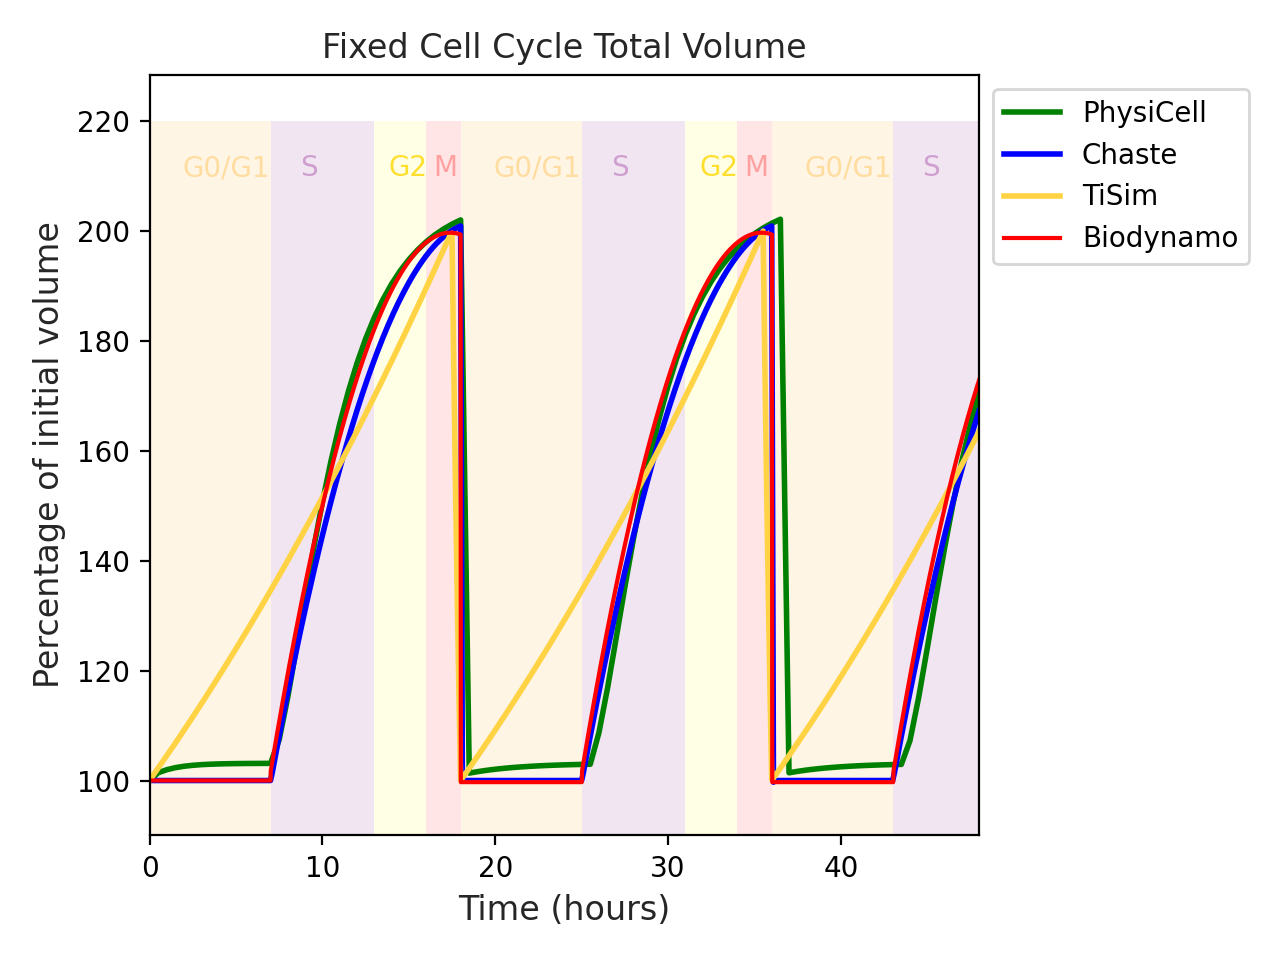
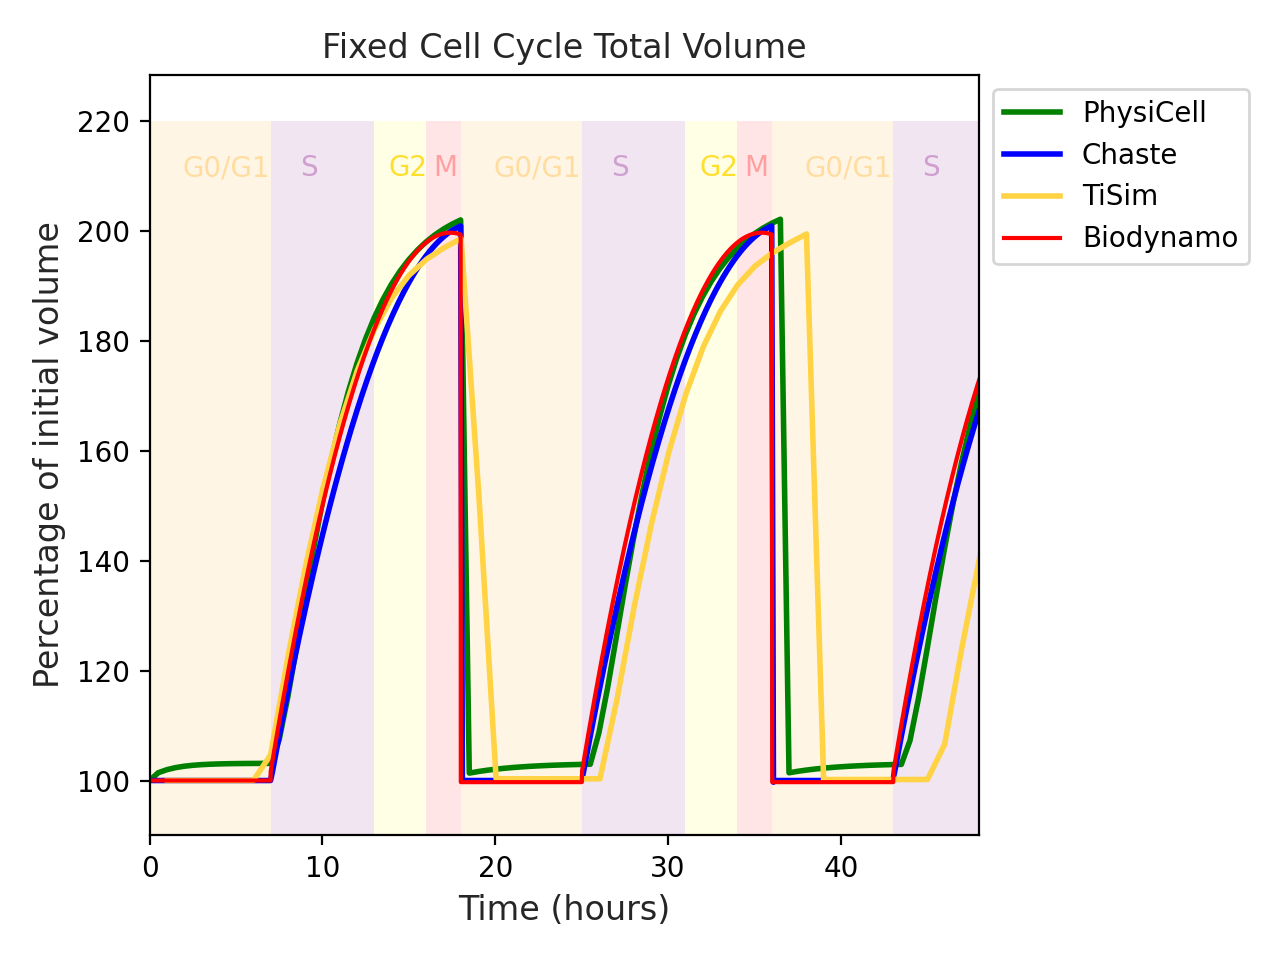
added tisim cell cycle

diff --git a/multiscale_benchmark/2022_09_hackathon/analysis/plot_fixed_cell_cycle.py b/multiscale_benchmark/2022_09_hackathon/analysis/plot_fixed_cell_cycle.py
@@ -27,10 +27,14 @@ def get_biodynamo_df(file):
 
     return df
 def get_tisim_df():
-    tisim_arr = [1,1.00454,1.00902,1.01351,1.01801,1.02253,1.02706,1.0316,1.03616,1.04073,1.04531,1.04991,1.05452,1.05915,1.06378,1.06844,1.0731,1.07778,1.08247,1.08718,1.0919,1.09663,1.10138,1.10614,1.11091,1.1157,1.1205,1.12532,1.13014,1.13499,1.13984,1.14471,1.1496,1.1545,1.15941,1.16433,1.16927,1.17423,1.1792,1.18418,1.18917,1.19418,1.19921,1.20425,1.2093,1.21436,1.21944,1.22454,1.22965,1.23477,1.23991,1.24506,1.25022,1.2554,1.2606,1.26581,1.27103,1.27627,1.28152,1.28678,1.29206,1.29736,1.30267,1.30799,1.31333,1.31868,1.32405,1.32943,1.33483,1.34024,1.34566,1.3511,1.35656,1.36203,1.36751,1.37301,1.37852,1.38405,1.38959,1.39515,1.40072,1.40631,1.41191,1.41753,1.42316,1.42881,1.43447,1.44015,1.44584,1.45155,1.45727,1.463,1.46876,1.47452,1.4803,1.4861,1.49191,1.49774,1.50358,1.50944,1.51531,1.5212,1.5271,1.53302,1.53895,1.5449,1.55087,1.55685,1.56284,1.56885,1.57488,1.58092,1.58698,1.59305,1.59913,1.60524,1.61136,1.61749,1.62364,1.6298,1.63598,1.64218,1.64839,1.65462,1.66086,1.66712,1.6734,1.67969,1.68599,1.69231,1.69865,1.70501,1.71137,1.71776,1.72416,1.73058,1.73701,1.74346,1.74992,1.7564,1.7629,1.76941,1.77594,1.78248,1.78905,1.79562,1.80221,1.80882,1.81545,1.82209,1.82875,1.83542,1.84211,1.84882,1.85554,1.86228,1.86903,1.8758,1.88259,1.88939,1.89621,1.90305,1.9099,1.91677,1.92366,1.93056,1.93748,1.94441,1.95137,1.95833,1.96532,1.97232,1.97934,1.98637,1.99343,1.99625,1.759,1.54133,1.34241,1.16138,1,1.00443,1.0089,1.01339,1.0179,1.02241,1.02694,1.03149,1.03604,1.04061,1.0452,1.0498,1.05441,1.05903,1.06367,1.06832,1.07298,1.07766,1.08235,1.08706,1.09178,1.09651,1.10126,1.10602,1.11079,1.11558,1.12038,1.12519,1.13002,1.13487,1.13972,1.14459,1.14948,1.15437,1.15929,1.16421,1.16915,1.1741,1.17907,1.18405,1.18905,1.19406,1.19908,1.20412,1.20917,1.21424,1.21932,1.22441,1.22952,1.23464,1.23978,1.24493,1.2501,1.25527,1.26047,1.26568,1.2709,1.27614,1.28139,1.28665,1.29193,1.29723,1.30254,1.30786,1.3132,1.31855,1.32392,1.3293,1.33469,1.3401,1.34553,1.35097,1.35642,1.36189,1.36737,1.37287,1.37839,1.38391,1.38946,1.39501,1.40059,1.40617,1.41177,1.41739,1.42302,1.42867,1.43433,1.44001,1.4457,1.4514,1.45712,1.46286,1.46861,1.47438,1.48016,1.48596,1.49177,1.49759,1.50344,1.50929,1.51517,1.52105,1.52696,1.53287,1.53881,1.54475,1.55072,1.5567,1.56269,1.5687,1.57473,1.58077,1.58682,1.5929,1.59898,1.60508,1.6112,1.61734,1.62349,1.62965,1.63583,1.64203,1.64824,1.65446,1.66071,1.66697,1.67324,1.67953,1.68583,1.69216,1.69849,1.70485,1.71121,1.7176,1.724,1.73042,1.73685,1.7433,1.74976,1.75624,1.76274,1.76925,1.77578,1.78232,1.78888,1.79546,1.80205,1.80866,1.81528,1.82192,1.82858,1.83525,1.84194,1.84865,1.85537,1.86211,1.86886,1.87563,1.88242,1.88922,1.89604,1.90288,1.90973,1.9166,1.92349,1.93039,1.93731,1.94424,1.95119,1.95816,1.96515,1.97215,1.97916,1.9862,1.99325,2.00034,1.76469,1.54654,1.34716,1.16569,1.0013,1.00439,1.00887,1.01336,1.01786,1.02238,1.02691,1.03145,1.03601,1.04058,1.04516,1.04976,1.05437,1.05899,1.06363,1.06828,1.07295,1.07762,1.08231,1.08702,1.09174,1.09647,1.10122,1.10598,1.11075,1.11554,1.12034,1.12515,1.12998,1.13483,1.13968,1.14455,1.14944,1.15433,1.15924,1.16417,1.16911,1.17406,1.17903,1.18401,1.18901,1.19402,1.19904,1.20408,1.20913,1.2142,1.21928,1.22437,1.22948,1.2346,1.23974,1.24489,1.25005,1.25523,1.26043,1.26563,1.27086,1.27609,1.28134,1.28661,1.29189,1.29718,1.30249,1.30781,1.31315,1.3185,1.32387,1.32925,1.33465,1.34006,1.34548,1.35092,1.35638,1.36184,1.36733,1.37283,1.37834,1.38387,1.38941,1.39497,1.40054,1.40613,1.41173,1.41734,1.42297,1.42862,1.43428,1.43996,1.44565,1.45136,1.45708,1.46281,1.46856,1.47433,1.48011,1.48591,1.49172,1.49755,1.50339,1.50924,1.51512,1.521,1.52691,1.53282,1.53876,1.54471,1.55067,1.55665,1.56264,1.56865,1.57468,1.58072,1.58677,1.59284,1.59893,1.60503,1.61115,1.61728,1.62343,1.6296,1.63578]
-    print(len(tisim_arr))
+    # ra<-c(1,1,1,1,1,1,1.04668,1.22985,1.39039,1.531,1.64972,1.74628,1.82178,1.87848,1.91944,1.94916,1.96973,1.98663,1.51756,1.0031,1.0031,1.0031,1.0031,1.0031,1.0031,1.0031,1.14954,1.31814,1.46836,1.59738,1.70416,1.78922,1.85432,1.90216,1.93616,1.96017,1.97837,1.99506,1.00185,1.00185,1.00185,1.00185,1.00185,1.00185,1.00185,1.06626,1.24191,1.40646,1.54479,1.66112)
+
+# time<-c(1.03111,2.02667,3.02222,4.01778,5.01333,6.00889,7.00444,8.03556,9.03111,10.0267,11.0222,12.0178,13.0133,14.0089,15.0044,16.0356,17.0311,18.0267,19.0578,20.0533,21.0489,22.0444,23.04,24.0356,25.0667,26.0622,27.0578,28.0533,29.0489,30.0444,31.04,32.0356,33.0311,34.0267,35.0222,36.0178,37.0133,38.0089,39.0044,40.0356,41.0311,42.0267,43.0222,44.0178,45.0133,46.0089,47.0044,48.0356,49.0311,50.0267)
+
+    tisim_arr = [1,1,1,1,1,1,1.04668,1.22985,1.39039,1.531,1.64972,1.74628,1.82178,1.87848,1.91944,1.94916,1.96973,1.98663,1.51756,1.0031,1.0031,1.0031,1.0031,1.0031,1.0031,1.0031,1.14954,1.31814,1.46836,1.59738,1.70416,1.78922,1.85432,1.90216,1.93616,1.96017,1.97837,1.99506,1.00185,1.00185,1.00185,1.00185,1.00185,1.00185,1.00185,1.06626,1.24191,1.40646,1.54479,1.66112]
+    tisim_dt = [1.03111,2.02667,3.02222,4.01778,5.01333,6.00889,7.00444,8.03556,9.03111,10.0267,11.0222,12.0178,13.0133,14.0089,15.0044,16.0356,17.0311,18.0267,19.0578,20.0533,21.0489,22.0444,23.04,24.0356,25.0667,26.0622,27.0578,28.0533,29.0489,30.0444,31.04,32.0356,33.0311,34.0267,35.0222,36.0178,37.0133,38.0089,39.0044,40.0356,41.0311,42.0267,43.0222,44.0178,45.0133,46.0089,47.0044,48.0356,49.0311,50.0267]
     tisim_arr = [x*100 for x in tisim_arr]
-    tisim_dt = [x/60 for x in range(0,2881,6)]
+    # tisim_dt = [x/60 for x in range(0,2881,6)]
     df = pd.DataFrame({'dt': tisim_dt, 'volumes': tisim_arr})
     return df
 def get_chaste_df(file):
